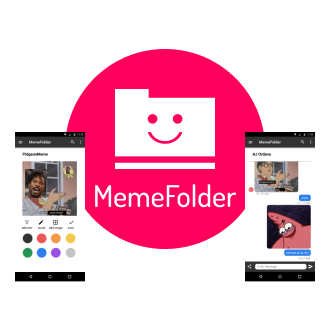
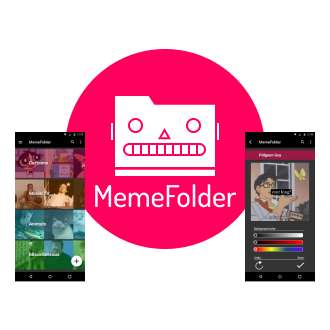
modify memefolder

diff --git a/project1.html b/project1.html
@@ -56,7 +56,7 @@
           <p>MemeFolder is a cloud storage app that allows users to
             easily collect memes and reaction images from their social media,
             as well as edit photos so that they can create their own memes.</p>
-          <a href="https://www.figma.com/proto/7TosMbpay1aMCw36C0Qcgb/MemeFolder?node-id=285%3A35481&viewport=267%2C793%2C0.470737&scaling=min-zoom"
+          <a href="https://www.figma.com/proto/7TosMbpay1aMCw36C0Qcgb/MemeFolder?node-id=382%3A1648&viewport=333%2C524%2C0.06987829506397247&scaling=min-zoom"
           target="_blank">
             <button class="green-button center-button">VIEW PROTOTYPE</button>
           </a>
@@ -569,12 +569,18 @@
       </p>
       <img src="images/Project1/StyleGuide/MemeFolder.png" class="large_img">
       <img src="images/Project1/StyleGuide/MemeFolder2.png" class="large_img">
-        <p>I made minor changes to the logo to make it look minimalistic without
-          appearing to be childish, and added different variations of what it
-          could look like under different circumstances. There are also minor color
-          changes, as I chose a marginally darker grey to provide a greater
-          contrast with the pink. The fonts have remained unchanged.
-        </p>
+      <p>I made minor changes to the logo to make it look minimalistic without
+        appearing to be childish, and added different variations of what it
+        could look like under different circumstances. There are also minor color
+        changes, as I chose a marginally darker grey to provide a greater
+        contrast with the pink. The fonts have remained unchanged.
+      </p>
+      <p>Later on, I also made changes to the logo, which was still too basic.
+        I based the changes on the robot emoji, since I thought it would be
+        appropriate given that memes are an alternative form of communicating
+        emotions in the age of social media, and that this is only possible
+        through a technological medium.</p>
+      <img src="images/Project1/iteration-3/logo-change.png" class="large_img">
     </section>
 
       <!--12. USER TESTING-->
@@ -601,7 +607,8 @@
         <p>I used the following three slides in the preference test. The
         images on the right
         were the ones favored by people who participated in the test, and were
-        ultimately included in the final version of the first prototype.
+        ultimately included in the final version of the first, low-fidelity
+        prototype. The prototypes for the desktop and mobile versions are included.
       </p>
     </section>
       <div class="background">
@@ -615,6 +622,14 @@
           <a href="https://drive.google.com/open?id=1tYBy1jO8f9U1rSMea_d_11G5GulpVJN2"
           target="_blank" class="button_pink">view user testing result</a>
         </div> -->
+        <a href="https://www.figma.com/proto/mff79vGnoIXvUeo0qpjDfK/MyCloud-deliverables?node-id=36%3A408&viewport=433%2C224%2C0.058132290840148926&scaling=min-zoom"
+        target="_blank">
+          <button class="green-button center-button">DESKTOP PROTOTYPE</button>
+        </a>
+        <a href="https://www.figma.com/proto/mff79vGnoIXvUeo0qpjDfK/MyCloud-deliverables?node-id=48%3A189&viewport=419%2C331%2C0.1804388463497162&scaling=min-zoom"
+        target="_blank">
+          <button class="green-button center-button">MOBILE PROTOTYPE</button>
+        </a>
       </div>
     <section class="sec2">
       <p>In the <span class="bold-me">MyFolder</span>
@@ -633,22 +648,21 @@
         <img src="images/Project1/MyFolder_RD/home.png" class="c2">
         <img src="images/Project1/MyFolder_RD/side.png" class="c2">
       </div>
-      <!-- <div class="center_button">
-        <a href="https://www.figma.com/proto/Lqp5jDqtGq26wHpCPuqjxTGq/MyFolder?node-id=34%3A346&viewport=299%2C148%2C0.0784457&scaling=min-zoom"
-        target="_blank" class="button_pink">view prototype</a>
-      </div> -->
+<!-- 
     </div>
-    <div class="background">
+    <div class="background"> -->
       <h4 class="label">AFTER:</h4>
       <div class="c2_holder">
         <img src="images/Project1/MyFolder_final/login.png" class="c2">
         <img src="images/Project1/MyFolder_final/home.png" class="c2">
         <img src="images/Project1/MyFolder_final/side.png" class="c2">
       </div>
-      <!-- <div class="center_button">
-        <a href="https://www.figma.com/proto/Lqp5jDqtGq26wHpCPuqjxTGq/MyFolder?node-id=125%3A1716&viewport=299%2C148%2C0.0784457&scaling=min-zoom"
-        target="_blank" class="button_pink">view prototype</a>
-      </div> -->
+      <a href="https://www.figma.com/proto/Lqp5jDqtGq26wHpCPuqjxTGq/MyFolder?node-id=125%3A1716&viewport=190%2C217%2C0.13064515590667725&scaling=min-zoom"
+      target="_blank">
+        <button class="green-button center-button">VIEW PROTOTYPE</button>
+      </a>
+
+
     </div>
 
     <section class="sec2">
@@ -661,11 +675,35 @@
     </section>
 
     <div class="background">
-      <h4 class="label">FINAL:</h4>
+      <h4 class="label">SECOND ITERATION:</h4>
       <div class="c2_holder">
         <img src="images/Project1/MemeFolder/login.png" class="c2">
         <img src="images/Project1/MemeFolder/home.png" class="c2">
         <img src="images/Project1/MemeFolder/side.png" class="c2">
+      </div>
+      <a href="https://www.figma.com/proto/7TosMbpay1aMCw36C0Qcgb/MemeFolder?node-id=285%3A35481&viewport=267%2C793%2C0.470737&scaling=min-zoom"
+      target="_blank">
+        <button class="green-button center-button">VIEW PROTOTYPE</button>
+      </a>
+    </div>
+
+    <section class="sec2">
+      <p>In the third iteration, I changed the logo again, and then altered the
+        aesthetics of the app to make it look more visually appealing. Again, I
+        kept the integrity of the app, though the change initially appears to be
+        drastic. </p>
+      </p>
+
+    </section>
+
+    <div class="background">
+      <h4 class="label">THIRD ITERATION:</h4>
+      <!-- <img src="images/Project1/iteration-3/aes-change.png" class="large_img"
+      alt=""> -->
+      <div class="c2_holder">
+        <img src="images/Project1/iteration-3/login.png" class="c2">
+        <img src="images/Project1/iteration-3/home.png" class="c2">
+        <img src="images/Project1/iteration-3/king.png" class="c2">
       </div>
     </div>
 
@@ -674,7 +712,8 @@
     <section class="sec" id="sec13">
     <h2>13. PROTOTYPE</h2>
       <p>The completed prototype for the MemeFolder app can be found here:</p>
-      <a href="https://www.figma.com/proto/7TosMbpay1aMCw36C0Qcgb/MemeFolder?node-id=285%3A35481&viewport=267%2C793%2C0.470737&scaling=min-zoom"
+
+      <a href="https://www.figma.com/proto/7TosMbpay1aMCw36C0Qcgb/MemeFolder?node-id=382%3A1648&viewport=333%2C524%2C0.06987829506397247&scaling=min-zoom"
       target="_blank">
         <button class="green-button center-button">VIEW PROTOTYPE</button>
       </a>
@@ -687,21 +726,23 @@
         Working on this project taught me that the process of developing a brand
         requires several iterations in order to focus on a particular direction.
         I realized after finishing this project that the initial direction that
-        you want the project to go to may not be where it ends up, and that I
+        I wanted this project to go to may not be where it ends up, and that I
         needed to be flexible when I noticed that I can make changes that could
         improve the program itself, whether it is to sharpen its image or make
-        its purpose more cohesive for users.</p><p>It also required tenacity, in that
+        its purpose more cohesive for users.</p>
+        <p>It also required tenacity, in that
         I had to be willing to redo the work that I had done in order to reflect
         the change in direction; I was initially resistant to this because I
         wanted to avoid doing more work that would be needed when I changed my
         brand direction, but embracing this has allowed me to make a stronger
         product. And even now, looking at MemeFolder, I am still thinking of
         ways I can improve the logo or enhance the prototype and include new
-        features that users may want. </p><p>I have desisted for now, simply because
+        features that users may want. </p>
+        <!-- <p>I have desisted for now, simply because
         there are other projects that I would like to spend my energy on, but
         working on this app has taught me that there can always be improvements
         and iterations that can make this project better for my users.
-      </p>
+      </p> -->
     </section>
 
       <!-- make into button? -->

diff --git a/ux_ui.html b/ux_ui.html
@@ -56,6 +56,25 @@
     <div class="middle_section">
       <section class="project-nav-wrapper">
 
+        <!-- chef k -->
+        <div class="project-nav">
+          <div class="greenbox_proj">
+            <a href="p3-chefkoochooloo.html">
+              <img src="images/Project3-chefk/chefk.png"
+              alt="logo for Chef Koochooloo">
+            </a>
+          </div>
+          <div class="project-name">
+            <h4>EDUCATION TECHNOLOGY</h4>
+            <h3 class="project-title">Chef Koochooloo</h3>
+              Education app designed to teach children STEM subjects with
+               cooking classes.
+            <a href="p3-chefkoochooloo.html">
+              <button class="green-button">VIEW CASE STUDY</button>
+            </a>
+          </div>
+        </div>
+
         <!-- StarCrossed -->
         <div class="project-nav">
           <div class="greenbox_proj">
@@ -99,7 +118,7 @@
         </div>
 
         <!-- Websites -->
-        <div class="project-nav">
+        <!-- <div class="project-nav">
           <div class="greenbox_proj">
             <a href="proj-website.html">
               <img src="images/Proj5-website/web-front.png"
@@ -115,7 +134,7 @@
               <button class="green-button">VIEW WEBSITES</button>
             </a>
           </div>
-        </div>
+        </div> -->
 
         <!-- DRIBBLE -->
         <div class="project-nav">

diff --git a/p3-chefkoochooloo.html b/p3-chefkoochooloo.html
@@ -166,7 +166,7 @@
       </section>
       <div class="background">
         <h4 class="label">Before</h4>
-        <img class="large_img" src="images/Project3-chefk/character-design-initial.png"
+        <img class="onepic" src="images/Project3-chefk/character-design-initial.png"
         alt="image of three character designs - they are all incredibly ugly">
       </div>
       <section class="sec2">
@@ -178,7 +178,7 @@
       </section>
       <div class="background">
         <h4 class="label">After?</h4>
-        <img class="large_img" src="images/Project3-chefk/character-design.png"
+        <img class="onepic" src="images/Project3-chefk/character-design.png"
         alt="image of three character designs - cartoon, semi realistic, and vector">
       </div>
       <section class="sec2">
@@ -382,10 +382,12 @@
     </section>
     <img class="background-img" src="images/Project3-chefk/mid-fi.PNG"
     alt="lo fi images of the app">
-    <a href="https://xd.adobe.com/view/dcbf42cb-b7aa-4da8-5b1f-b5c7115c0703-aa8e/?fullscreen"
+
+    <!-- <a href="https://xd.adobe.com/view/dcbf42cb-b7aa-4da8-5b1f-b5c7115c0703-aa8e/?fullscreen"
     target="_blank">
       <button class="green-button center-button">VIEW PROTOTYPE</button>
-    </a>
+    </a> -->
+
     </div>
 
     <section class="sec bottom-space" id="sec08">

diff --git a/instructional_design.html b/instructional_design.html
@@ -53,7 +53,7 @@
     <div class="middle_section">
       <section class="project-nav-wrapper">
 
-        <!-- StarCrossed -->
+        <!-- chef k -->
         <div class="project-nav">
           <div class="greenbox_proj">
             <a href="p3-chefkoochooloo.html">
